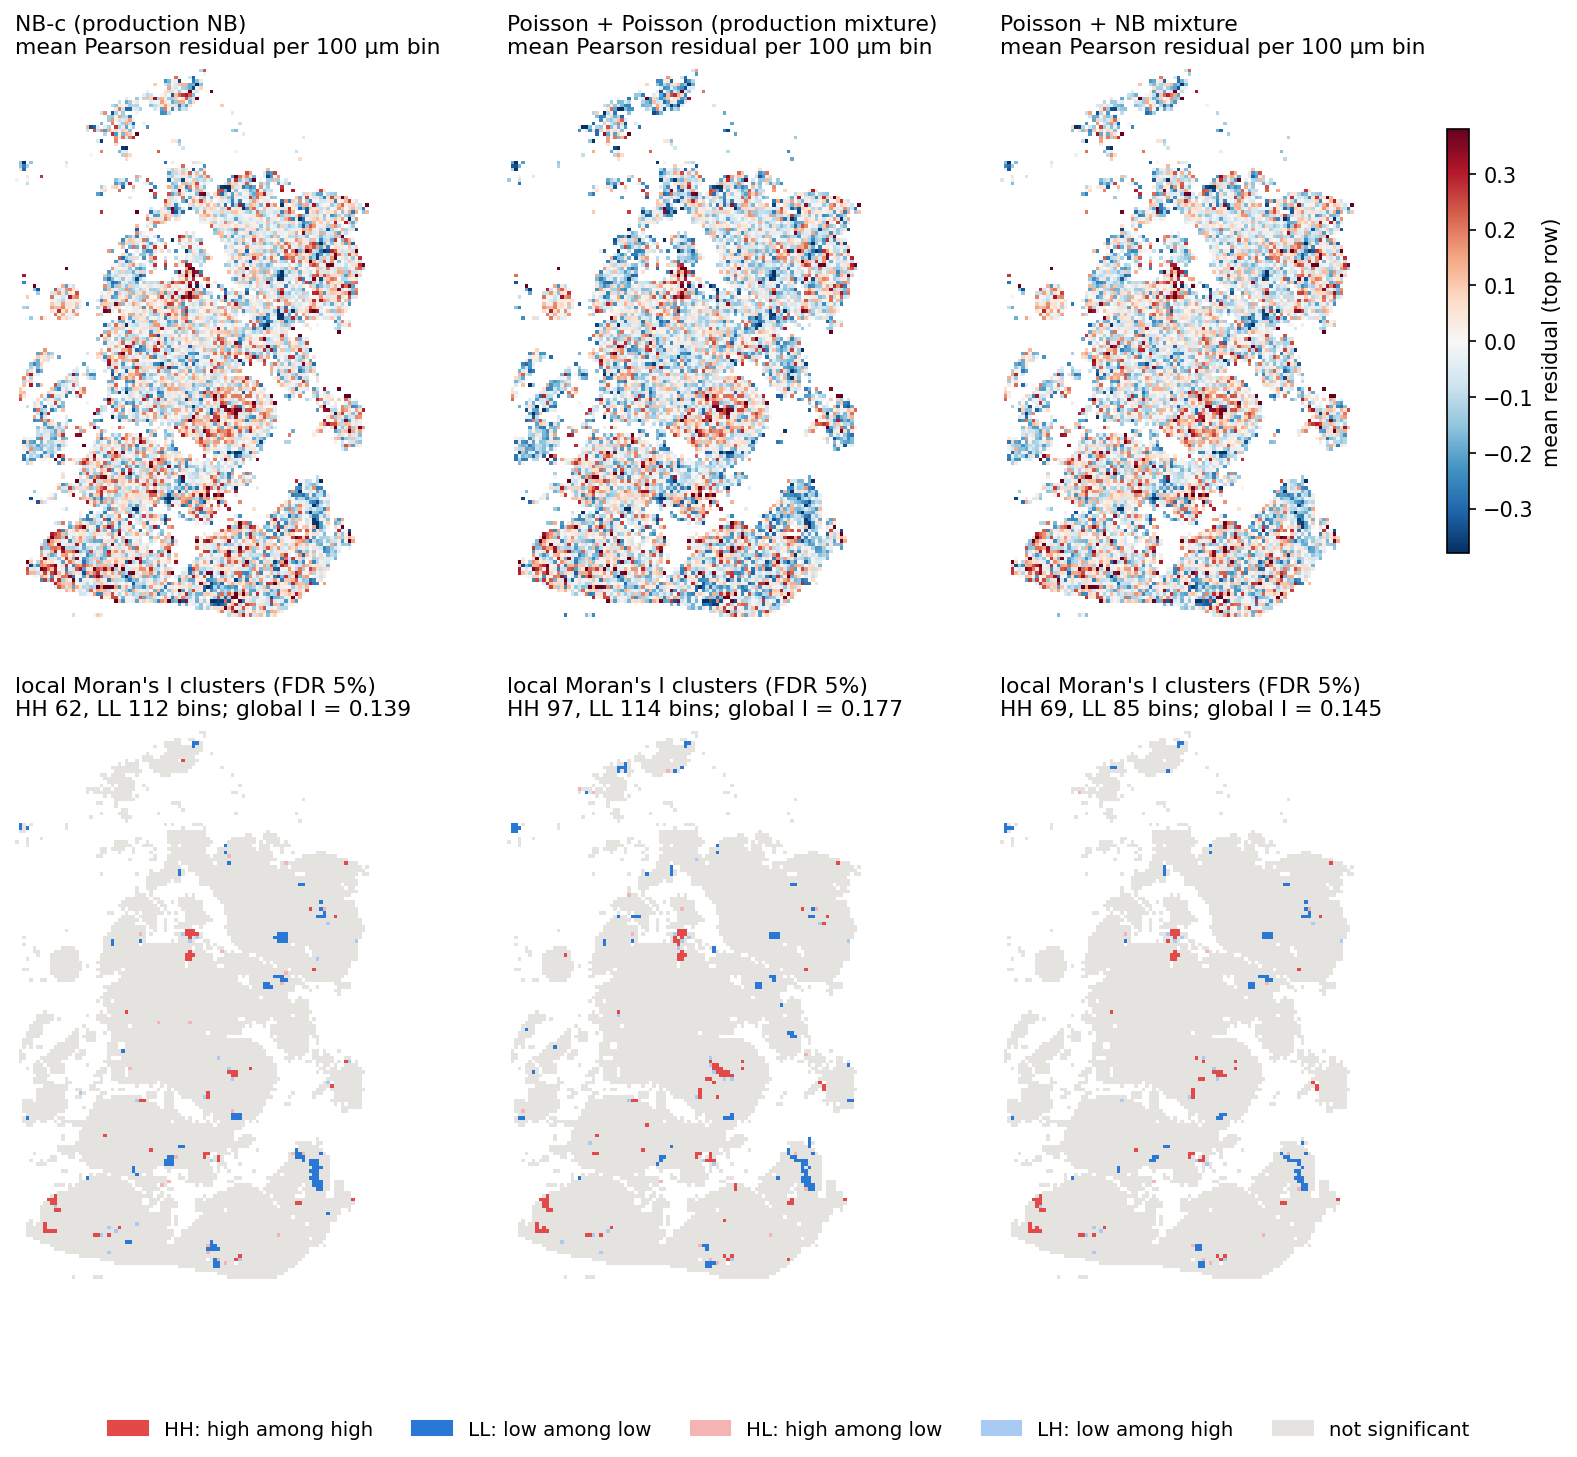
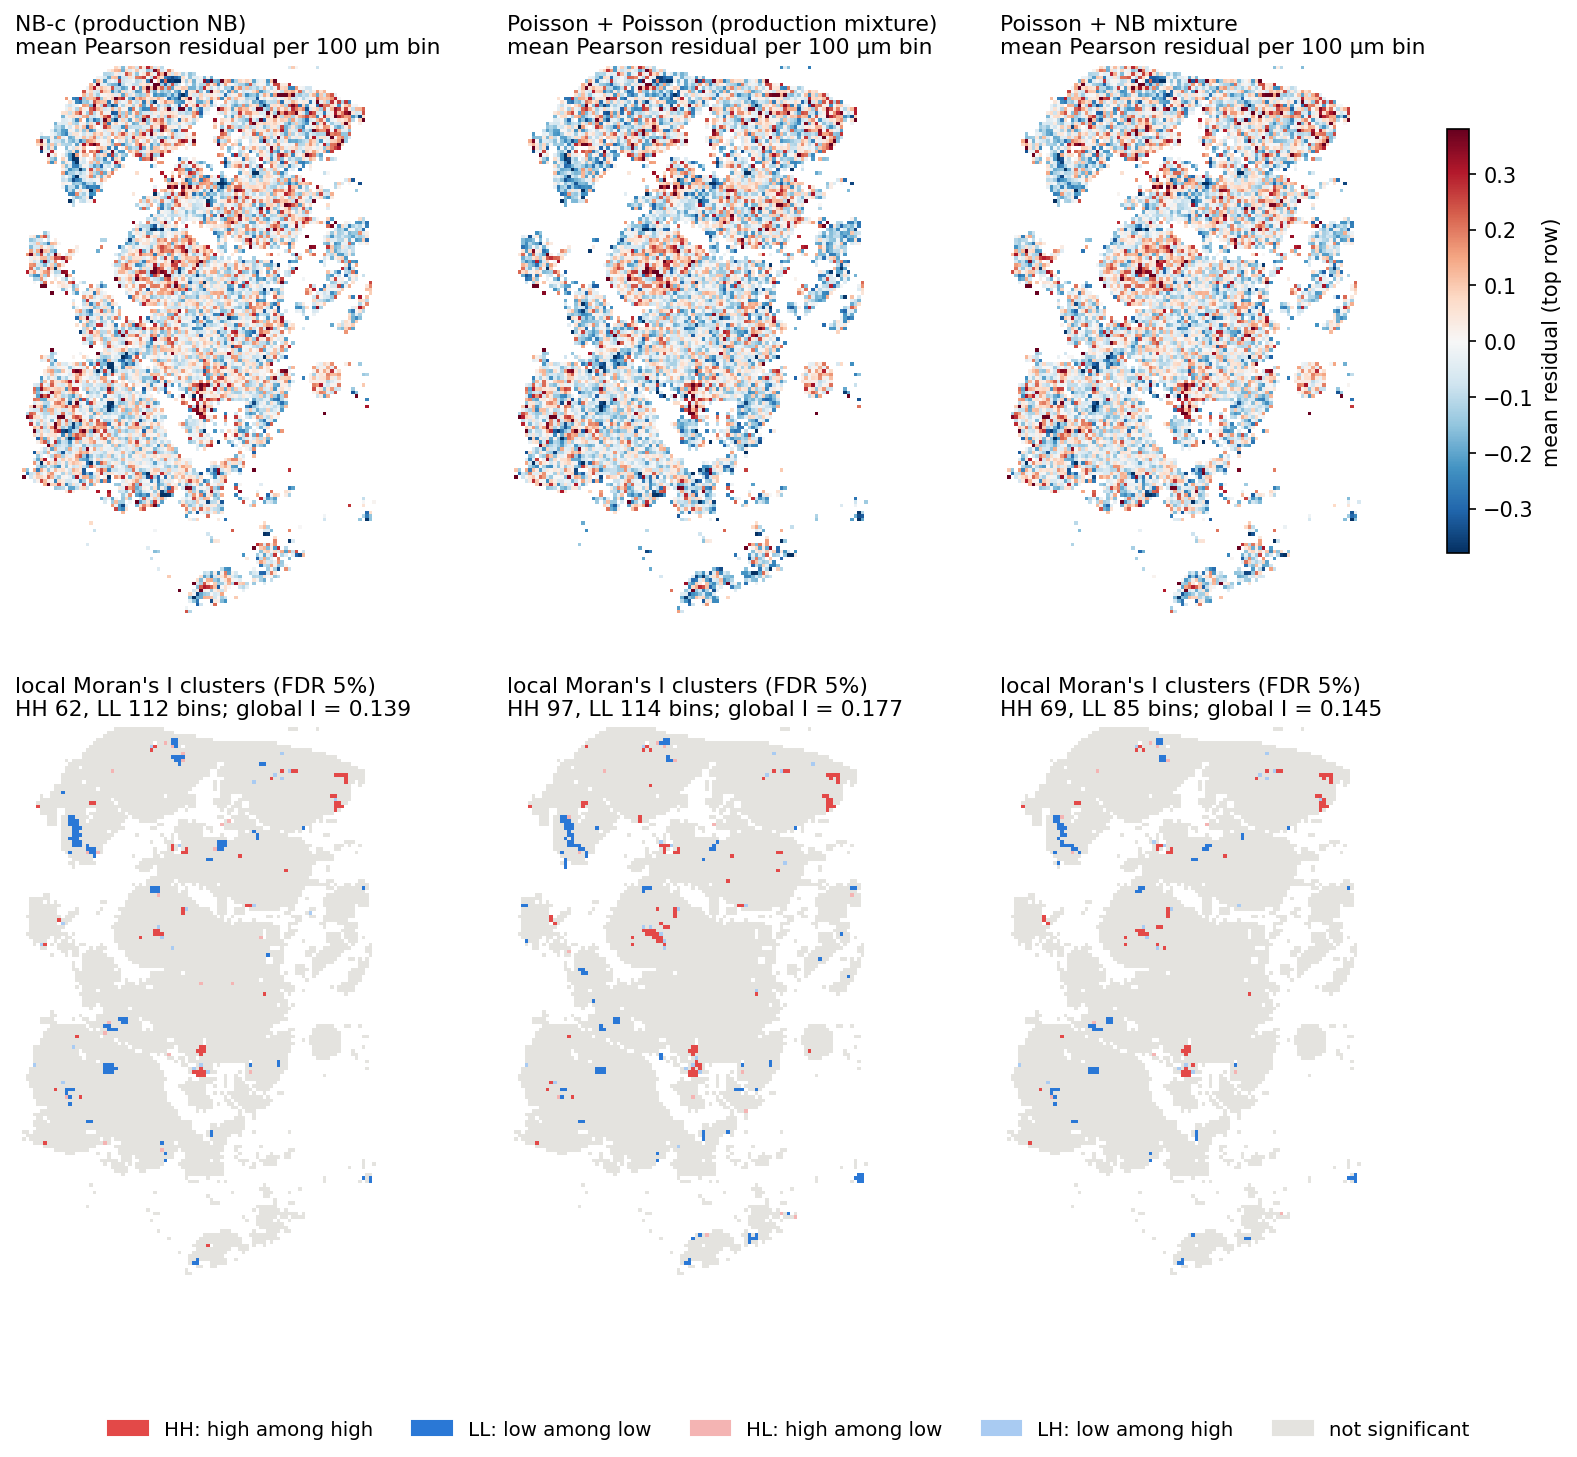
LISA maps rotated 180 degrees to match the other section maps

diff --git a/run/spatial_lisa_production.py b/run/spatial_lisa_production.py
@@ -87,6 +87,8 @@ def plot_maps(L, keys, path):
                       f"LL {int(np.sum(Lm['cls'] == 'LL'))} bins; global I = {Lm['I_global']:.3f}",
                       fontsize=10.5, loc="left")
         for a in (ax, ax2):
+            a.invert_xaxis()                 # rotated 180 degrees, to match the other section maps
+            a.invert_yaxis()
             a.set_xticks([])
             a.set_yticks([])
             for sp in a.spines.values():
